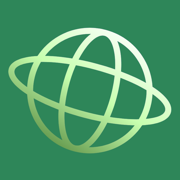
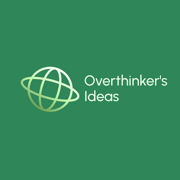
Add files via upload

Changed region(s): [[0.0278, 0.1389, 0.9722, 0.8611]]

diff --git a/index.html b/index.html
@@ -513,11 +513,12 @@ body[data-pattern="none"] { --pat1: none; --pat2: none; }
 /* Brand: the globe logo with the name in a clean rounded sans, like the logo */
 .brand { font-family: var(--body); font-weight: 800; font-size: 1.08rem; letter-spacing: -0.01em; gap: 0.6rem; }
 .brand img { width: 30px; height: 30px; border-radius: 9px; flex: none; }
+.brand .brand-logo { width: auto; height: 44px; border-radius: 12px; }
 </style>
 
 <div class="page">
   <header class="top">
-    <h1 class="brand"><img src="/img/icon-512.png" alt="" width="30" height="30"><span>Overthinker's Ideas</span></h1>
+    <h1 class="brand"><img class="brand-logo" src="/img/logo-banner.png" alt="Overthinker's Ideas" width="134" height="44"></h1>
     <div class="top-right">
       <span class="bar-tag" id="bar-tag" data-i18n="tag">личный архив</span>
       <select class="lang" id="lang" data-i18n-aria="langAria" aria-label="Язык">
